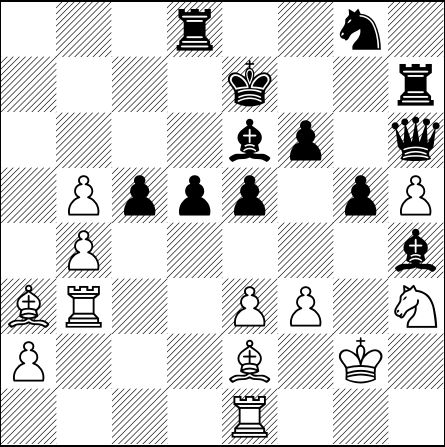
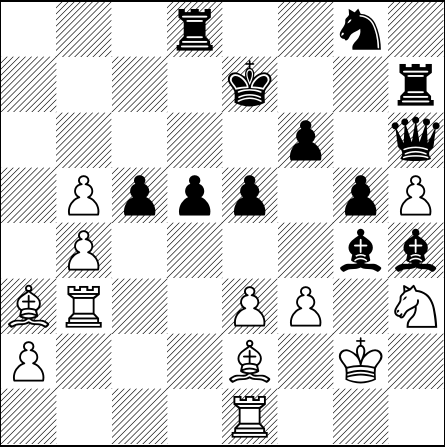
[automated] Regenerate text/pdf for chessboard

Changed region(s): [[0.4966, 0.2617, 0.6135, 0.3781], [0.7596, 0.4944, 0.8764, 0.6107]]

diff --git a/default_filepath.tex b/default_filepath.tex
@@ -13,6 +13,6 @@
 \normalsize%
 \setchessboard{showmover=false}%
 \newgame%
-\fenboard{3r2n1/4k2r/4bp1q/1Pppp1pP/1P5b/BR2PP1N/P3B1K1/4R3 b - - 4 41}%
+\fenboard{3r2n1/4k2r/5p1q/1Pppp1pP/1P4bb/BR2PP1N/P3B1K1/4R3 w - - 5 42}%
 \chessboard%
 \end{document}
